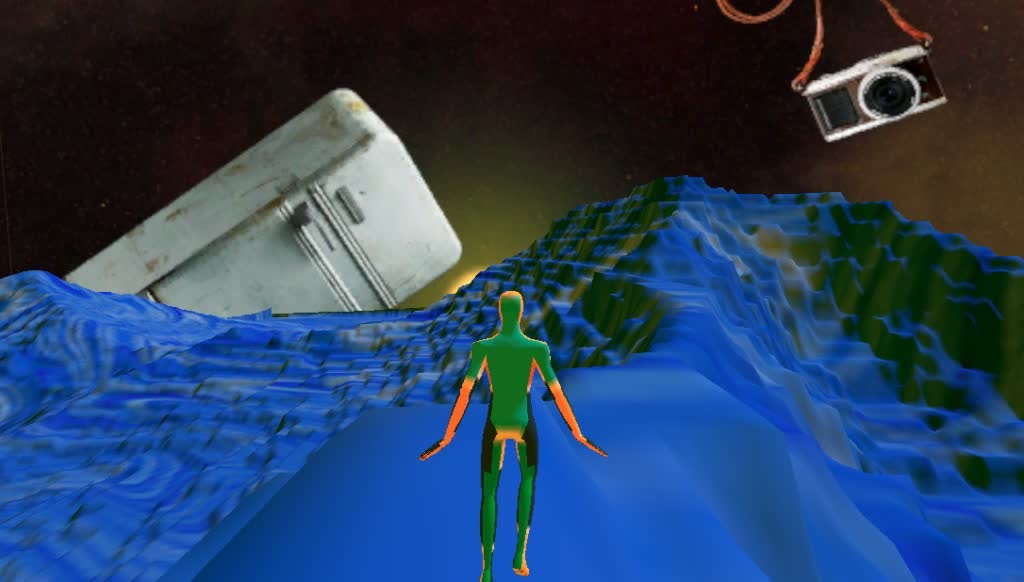
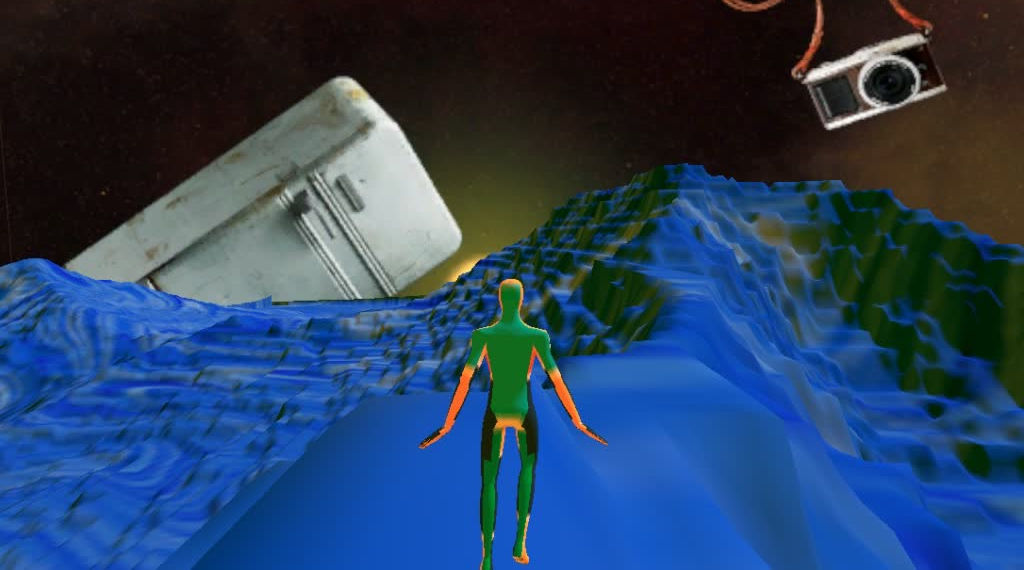
Resize images and update html to fix project carousel

diff --git a/index.html b/index.html
@@ -80,10 +80,10 @@
                 </div>
 
                 <!-- Project Zero Row-->
-                <div class="row gx-0 mb-5 mb-lg-5 justify-content-center">
-                    <div class="col-lg-6">
+                <div class="row gx-0 mb-5 mb-lg-5 justify-content-center project-container">
+                    <div class="col-lg-6 carousel-container">
                         
-                        <div id="myCarousel1" class="carousel slide carousel-fade" data-bs-ride="carousel">
+                        <div id="myCarousel1" class="carousel slide carousel-fade h-100" data-bs-ride="carousel">
                             <div class="carousel-inner">
                               <div class="carousel-item active">
                                 <img src="assets/img/MrMania-01.jpg" class="d-block w-100" alt="...">
@@ -112,7 +112,7 @@
                           </div> 
  
                     </div>
-                    <div class="col-lg-6 order-lg-first">
+                    <div class="col-lg-6 order-lg-first text-container">
                         <div class="bg-black text-center h-100 project">
                             <div class="d-flex h-100">
                                 <div class="project-text w-100 my-auto text-center text-lg-left">
@@ -127,10 +127,10 @@
                 </div>
                 
                 <!-- Project One Row-->
-                <div class="row gx-0 mb-5 mb-lg-5 justify-content-center">
-                    <div class="col-lg-6">
+                <div class="row gx-0 mb-5 mb-lg-5 justify-content-center project-container">
+                  <div class="col-lg-6 carousel-container">
                         
-                        <div id="myCarousel3" class="carousel slide carousel-fade" data-bs-ride="carousel">
+                        <div id="myCarousel3" class="carousel slide carousel-fade h-100" data-bs-ride="carousel">
                             <div class="carousel-inner">
                               <div class="carousel-item active">
                                 <img src="assets/img/universo-telemachina-01.jpg" class="d-block w-100" alt="...">
@@ -156,7 +156,7 @@
                           </div>
                                                   
                     </div>
-                    <div class="col-lg-6">
+                    <div class="col-lg-6 text-container">
                         <div class="bg-black text-center h-100 project">
                             <div class="d-flex h-100">
                                 <div class="project-text w-100 my-auto text-center text-lg-right">
@@ -171,10 +171,10 @@
                 </div>
 
                 <!-- Project Two Row-->
-                <div class="row gx-0 mb-5 mb-lg-5 justify-content-center">
-                    <div class="col-lg-6">
+                <div class="row gx-0 mb-5 mb-lg-5 justify-content-center project-container">
+                  <div class="col-lg-6 carousel-container">
                         
-                         <div id="myCarousel2" class="carousel slide carousel-fade" data-bs-ride="carousel">
+                         <div id="myCarousel2" class="carousel slide carousel-fade h-100" data-bs-ride="carousel">
                             <div class="carousel-inner">
                               <div class="carousel-item active">
                                 <img src="assets/img/eV-2020-01.jpg" class="d-block w-100" alt="...">
@@ -203,7 +203,7 @@
                           </div>
  
                     </div>
-                    <div class="col-lg-6  order-lg-first">
+                    <div class="col-lg-6 order-lg-first text-container">
                         <div class="bg-black text-center h-100 project">
                             <div class="d-flex h-100">
                                 <div class="project-text w-100 my-auto text-center text-lg-left">
